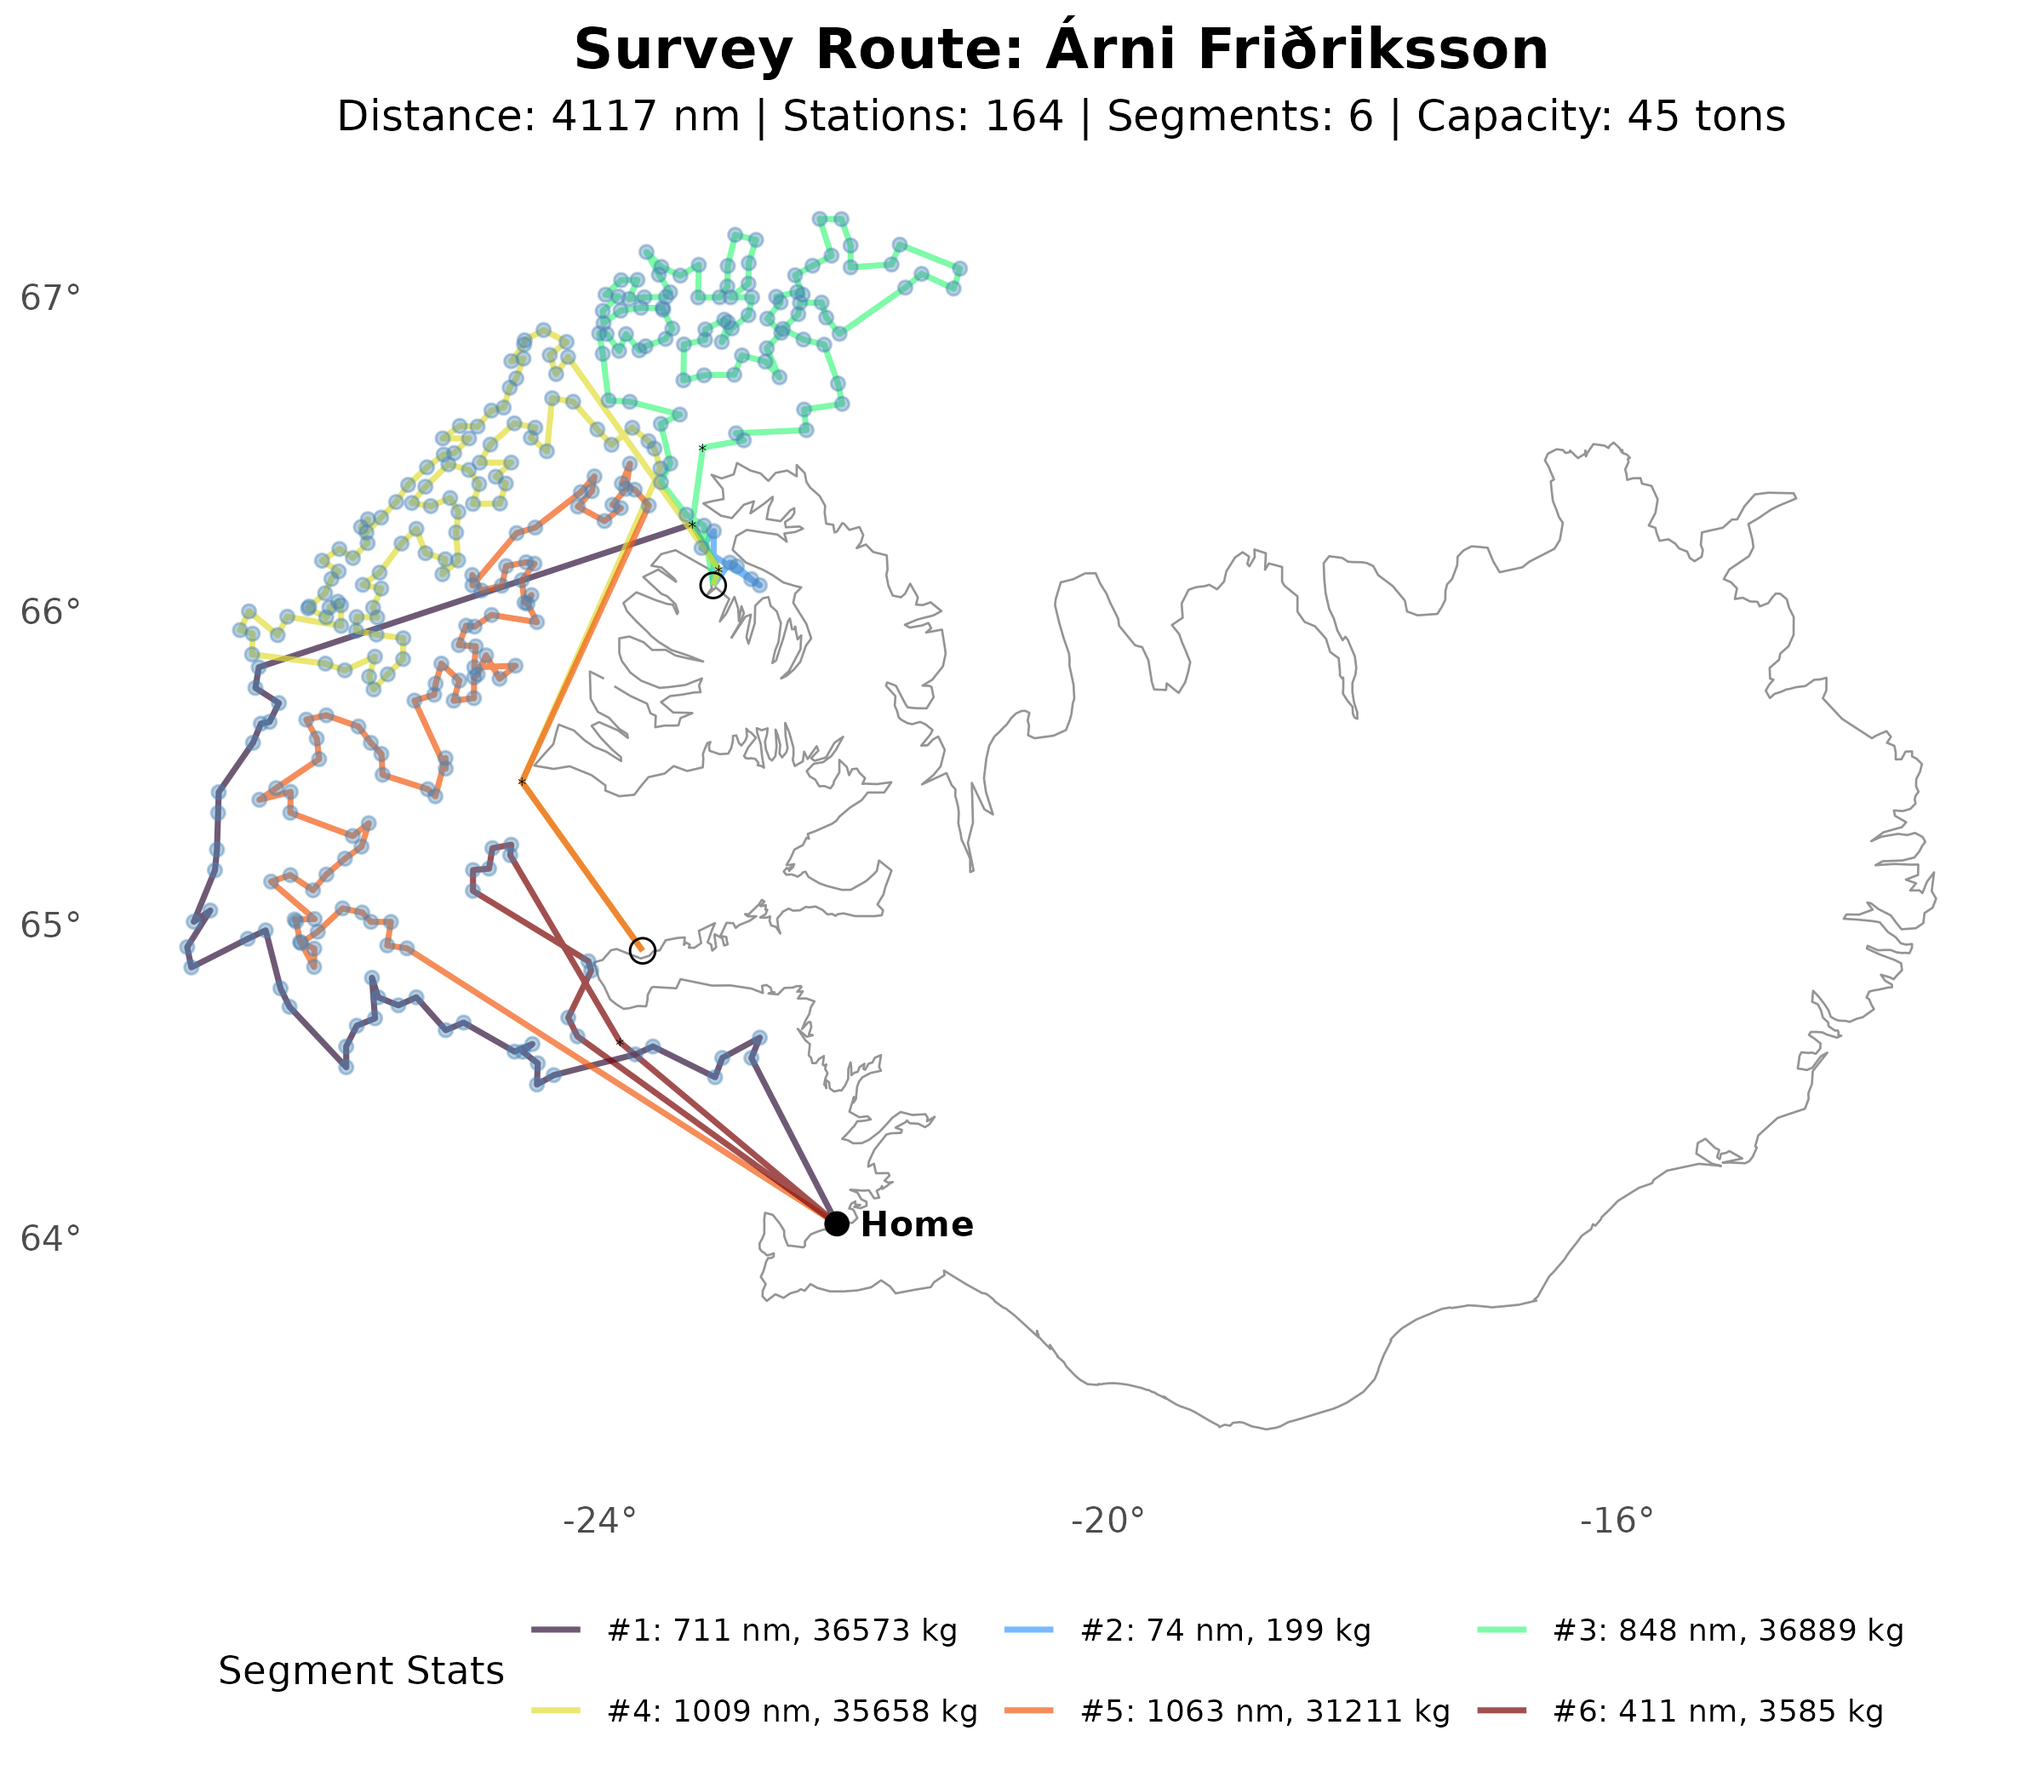
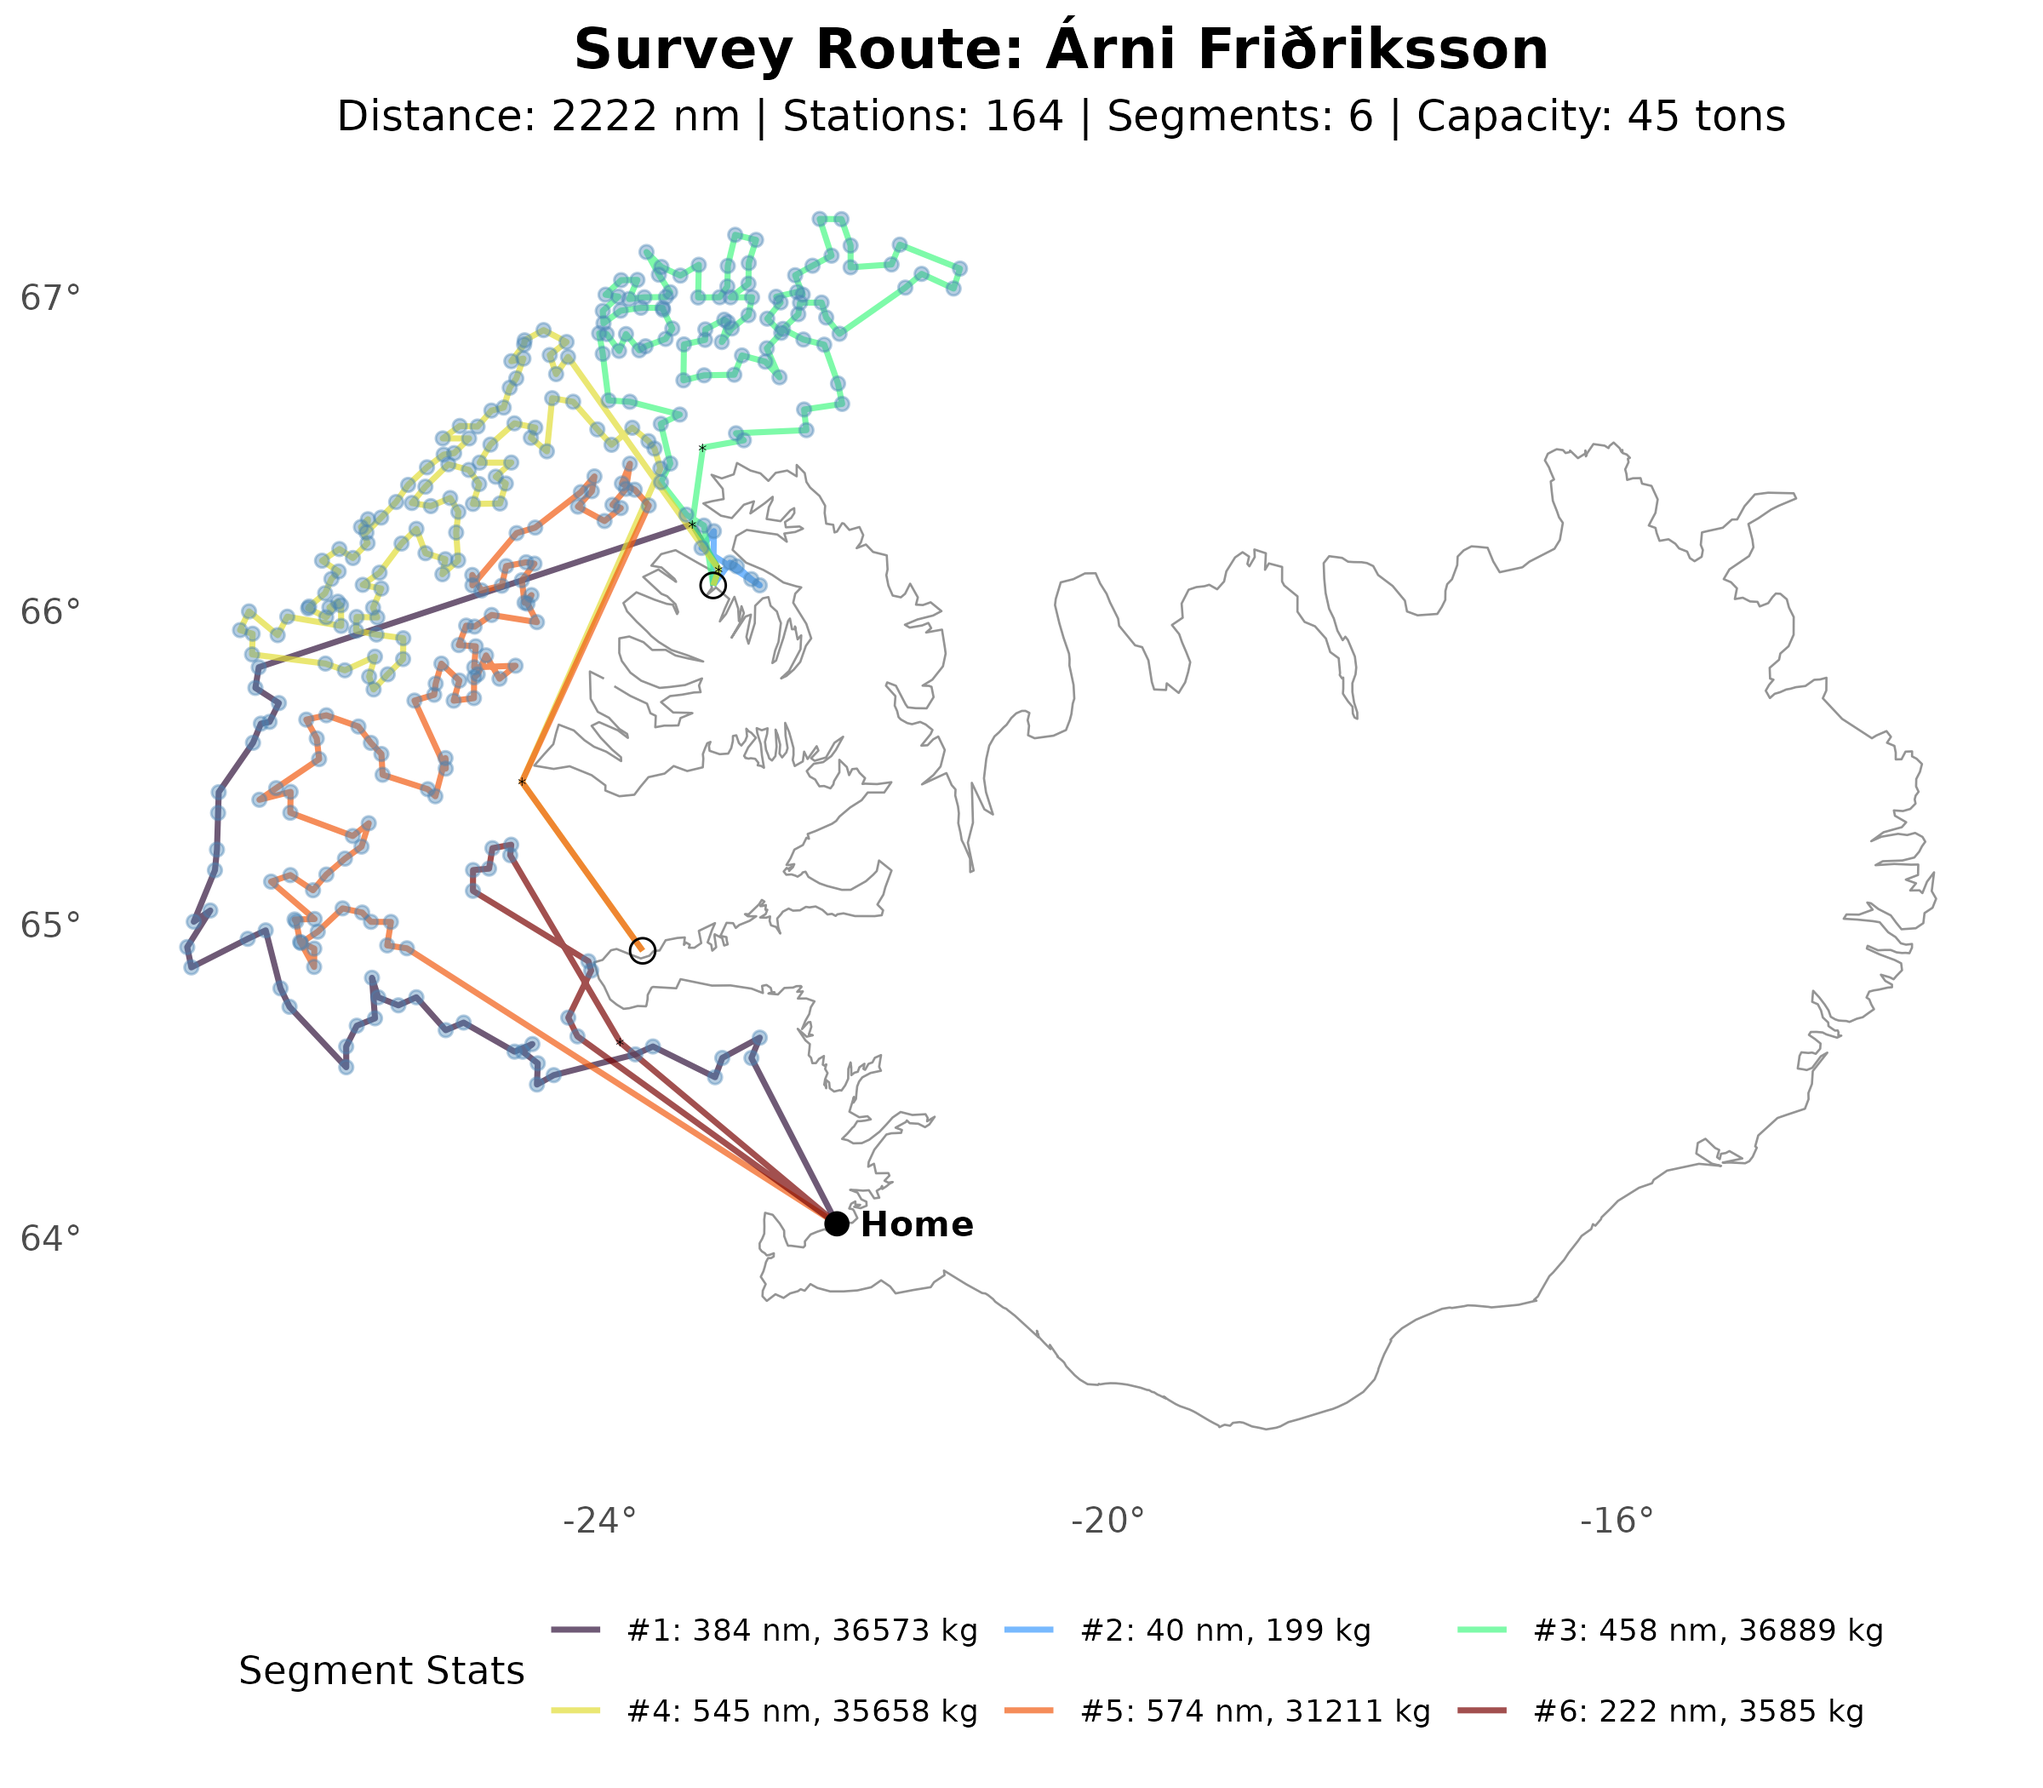
BUG FIX: Re-run after fixing nautical miles (instead of kms)

diff --git a/sol/survey/README.md b/sol/survey/README.md
@@ -72,46 +72,46 @@ The corresponding PNG is written next to the JSON file, for example:
 
 |   Segment |  Length | Stations |     Catch | Distance (nm) |
 |----------:|--------:|---------:|----------:|--------------:|
-|         1 |      38 |       36 |     24176 |        728.22 |
-|         2 |      20 |       18 |     10744 |        405.93 |
-|         3 |      44 |       42 |     15896 |       1178.30 |
-|         4 |      17 |       15 |     13065 |        582.27 |
-| **Total** | **119** |  **111** | **63881** |   **2894.72** |
+|         1 |      38 |       36 |     24176 |        392.96 |
+|         2 |      20 |       18 |     10744 |        219.05 |
+|         3 |      44 |       42 |     15896 |        635.83 |
+|         4 |      17 |       15 |     13065 |        314.21 |
+| **Total** | **119** |  **111** | **63881** |   **1562.04** |
 
 ### Boat 2: Árni Friðriksson
 
 |   Segment |  Length | Stations |      Catch | Distance (nm) |
 |----------:|--------:|---------:|-----------:|--------------:|
-|         1 |      22 |       20 |      36573 |        711.41 |
-|         2 |       5 |        3 |        199 |         74.46 |
-|         3 |      49 |       47 |      36889 |        848.20 |
-|         4 |      50 |       48 |      35658 |       1009.09 |
-|         5 |      43 |       41 |      31211 |       1063.20 |
-|         6 |       7 |        5 |       3585 |        411.13 |
-| **Total** | **176** |  **164** | **144115** |   **4117.49** |
+|         1 |      22 |       20 |      36573 |        383.89 |
+|         2 |       5 |        3 |        199 |         40.18 |
+|         3 |      49 |       47 |      36889 |        457.70 |
+|         4 |      50 |       48 |      35658 |        544.52 |
+|         5 |      43 |       41 |      31211 |        573.72 |
+|         6 |       7 |        5 |       3585 |        221.85 |
+| **Total** | **176** |  **164** | **144115** |   **2221.87** |
 
 ### Boat 3: Gullver
 
 |   Segment |  Length | Stations |     Catch | Distance (nm) |
 |----------:|--------:|---------:|----------:|--------------:|
-|         1 |      73 |       71 |     20040 |       1544.99 |
-|         2 |      82 |       80 |     52715 |       1829.34 |
-| **Total** | **155** |  **151** | **72755** |   **3374.33** |
+|         1 |      73 |       71 |     20040 |        833.70 |
+|         2 |      82 |       80 |     52715 |        987.15 |
+| **Total** | **155** |  **151** | **72755** |   **1820.85** |
 
 ### Boat 4: Breki
 
 |   Segment |  Length | Stations |      Catch | Distance (nm) |
 |----------:|--------:|---------:|-----------:|--------------:|
-|         1 |      89 |       87 |     147573 |       1864.47 |
-|         2 |      68 |       67 |      99741 |       1490.56 |
-| **Total** | **157** |  **154** | **247314** |   **3355.02** |
+|         1 |      89 |       87 |     147573 |       1006.10 |
+|         2 |      68 |       67 |      99741 |        804.33 |
+| **Total** | **157** |  **154** | **247314** |   **1810.43** |
 
 ### Fleet Summary
 
 |   Boat ID | Boat              | Segments |   Nodes | Stations | Total Catch | Distance (nm) |
 |----------:|-------------------|---------:|--------:|---------:|------------:|--------------:|
-|         1 | Bjarni Sæmundsson |        4 |     119 |      111 |       63881 |       2894.72 |
-|         2 | Árni Friðriksson  |        6 |     176 |      164 |      144115 |       4117.49 |
-|         3 | Gullver           |        2 |     155 |      151 |       72755 |       3374.33 |
-|         4 | Breki             |        2 |     157 |      154 |      247314 |       3355.02 |
-| **Total** |                   |   **14** | **607** |  **580** |  **528065** |  **13741.56** |
+|         1 | Bjarni Sæmundsson |        4 |     119 |      111 |       63881 |       1562.04 |
+|         2 | Árni Friðriksson  |        6 |     176 |      164 |      144115 |       2221.87 |
+|         3 | Gullver           |        2 |     155 |      151 |       72755 |       1820.85 |
+|         4 | Breki             |        2 |     157 |      154 |      247314 |       1810.43 |
+| **Total** |                   |   **14** | **607** |  **580** |  **528065** |   **7415.19** |

diff --git a/sol/ge/README.md b/sol/ge/README.md
@@ -24,17 +24,17 @@ particularly in regions where many similar‑length edges compete.
 
 |   Segment |   Length | Stations |      Catch | Distance (nm) |
 |----------:|---------:|---------:|-----------:|--------------:|
-|         1 |       51 |       25 |      44705 |        650.96 |
-|         2 |       53 |       26 |      37061 |        737.75 |
-|         3 |       17 |        8 |      35262 |        406.20 |
-|         4 |       37 |       18 |      42619 |        771.60 |
-|         5 |       47 |       23 |      44306 |        660.16 |
-|         6 |      101 |       50 |      43154 |       1191.67 |
-|         7 |      169 |       84 |      43407 |       1905.31 |
-|         8 |      117 |       58 |      33722 |       1319.24 |
-|         9 |       59 |       29 |      44875 |        809.50 |
-|        10 |      175 |       87 |      44428 |       2237.17 |
-|        11 |      165 |       82 |      44952 |       1771.28 |
-|        12 |      131 |       65 |      44819 |       1316.98 |
-|        13 |       50 |       25 |      24755 |        651.83 |
-| **Total** | **1172** |  **580** | **528065** |  **14429.66** |
+|         1 |       51 |       25 |      44705 |        351.27 |
+|         2 |       53 |       26 |      37061 |        398.10 |
+|         3 |       17 |        8 |      35262 |        219.19 |
+|         4 |       37 |       18 |      42619 |        416.37 |
+|         5 |       47 |       23 |      44306 |        356.24 |
+|         6 |      101 |       50 |      43154 |        643.05 |
+|         7 |      169 |       84 |      43407 |       1028.14 |
+|         8 |      117 |       58 |      33722 |        711.89 |
+|         9 |       59 |       29 |      44875 |        436.82 |
+|        10 |      175 |       87 |      44428 |       1207.21 |
+|        11 |      165 |       82 |      44952 |        955.81 |
+|        12 |      131 |       65 |      44819 |        710.67 |
+|        13 |       50 |       25 |      24755 |        351.74 |
+| **Total** | **1172** |  **580** | **528065** |   **7786.50** |

diff --git a/sol/ci/README.md b/sol/ci/README.md
@@ -26,17 +26,17 @@ default initialization for downstream refinement.
 
 |   Segment |   Length | Stations |      Catch | Distance (nm) |
 |----------:|---------:|---------:|-----------:|--------------:|
-|         1 |       71 |       35 |      43347 |        902.54 |
-|         2 |      127 |       63 |      43548 |       1413.97 |
-|         3 |      177 |       88 |      43825 |       2327.79 |
-|         4 |       65 |       32 |      38138 |        871.57 |
-|         5 |      115 |       57 |      44921 |       1479.65 |
-|         6 |      155 |       77 |      44170 |       1880.90 |
-|         7 |      163 |       81 |      44751 |       1734.65 |
-|         8 |       89 |       44 |      39689 |       1291.75 |
-|         9 |        9 |        4 |      41179 |        427.79 |
-|        10 |       49 |       24 |      44762 |        684.34 |
-|        11 |       49 |       24 |      44053 |        587.94 |
-|        12 |       89 |       44 |      44836 |       1194.42 |
-|        13 |       14 |        7 |      10846 |        507.35 |
-| **Total** | **1172** |  **580** | **528065** |  **15304.65** |
+|         1 |       71 |       35 |      43347 |        487.03 |
+|         2 |      127 |       63 |      43548 |        763.01 |
+|         3 |      177 |       88 |      43825 |       1256.11 |
+|         4 |       65 |       32 |      38138 |        470.31 |
+|         5 |      115 |       57 |      44921 |        798.45 |
+|         6 |      155 |       77 |      44170 |       1014.96 |
+|         7 |      163 |       81 |      44751 |        936.05 |
+|         8 |       89 |       44 |      39689 |        697.05 |
+|         9 |        9 |        4 |      41179 |        230.84 |
+|        10 |       49 |       24 |      44762 |        369.28 |
+|        11 |       49 |       24 |      44053 |        317.26 |
+|        12 |       89 |       44 |      44836 |        644.53 |
+|        13 |       14 |        7 |      10846 |        273.77 |
+| **Total** | **1172** |  **580** | **528065** |   **8258.66** |

diff --git a/sol/nn/README.md b/sol/nn/README.md
@@ -34,16 +34,16 @@ make -C src-refactor init_nn
 
 |   Segment |   Length | Stations |      Catch | Distance (nm) |
 |----------:|---------:|---------:|-----------:|--------------:|
-|         1 |       83 |       41 |      44998 |       1018.20 |
-|         2 |      135 |       67 |      44994 |       1196.18 |
-|         3 |      117 |       58 |      44997 |       1502.73 |
-|         4 |      123 |       61 |      44986 |       1225.16 |
-|         5 |      187 |       93 |      44998 |       2860.71 |
-|         6 |      127 |       63 |      44998 |       1837.71 |
-|         7 |      169 |       84 |      44992 |       2865.54 |
-|         8 |       47 |       23 |      44883 |       1554.28 |
-|         9 |       65 |       32 |      44991 |        838.07 |
-|        10 |       79 |       39 |      44777 |        951.47 |
-|        11 |       23 |       11 |      44428 |        547.87 |
-|        12 |       16 |        8 |      34023 |        725.13 |
-| **Total** | **1171** |  **580** | **528065** |  **17115.28** |
+|         1 |       83 |       41 |      44998 |        549.44 |
+|         2 |      135 |       67 |      44994 |        645.48 |
+|         3 |      117 |       58 |      44997 |        810.90 |
+|         4 |      123 |       61 |      44986 |        661.12 |
+|         5 |      187 |       93 |      44998 |       1543.69 |
+|         6 |      127 |       63 |      44998 |        991.66 |
+|         7 |      169 |       84 |      44992 |       1546.30 |
+|         8 |       47 |       23 |      44883 |        838.72 |
+|         9 |       65 |       32 |      44991 |        452.24 |
+|        10 |       79 |       39 |      44777 |        513.43 |
+|        11 |       23 |       11 |      44428 |        295.64 |
+|        12 |       16 |        8 |      34023 |        391.29 |
+| **Total** | **1171** |  **580** | **528065** |   **9235.71** |
